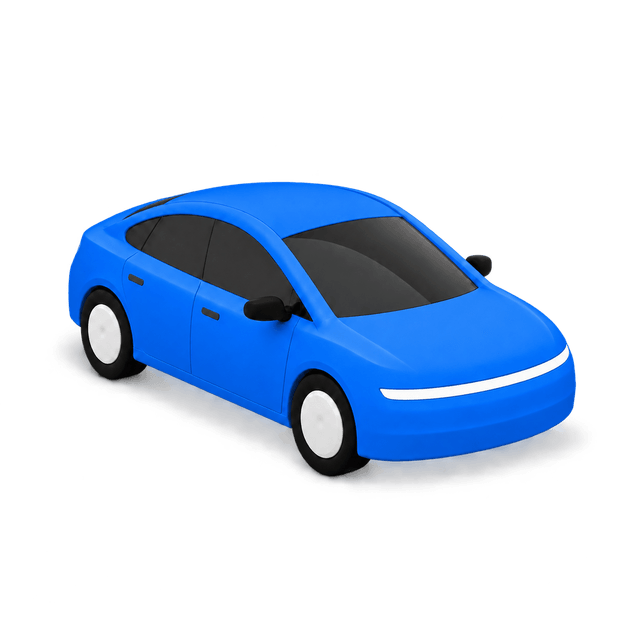
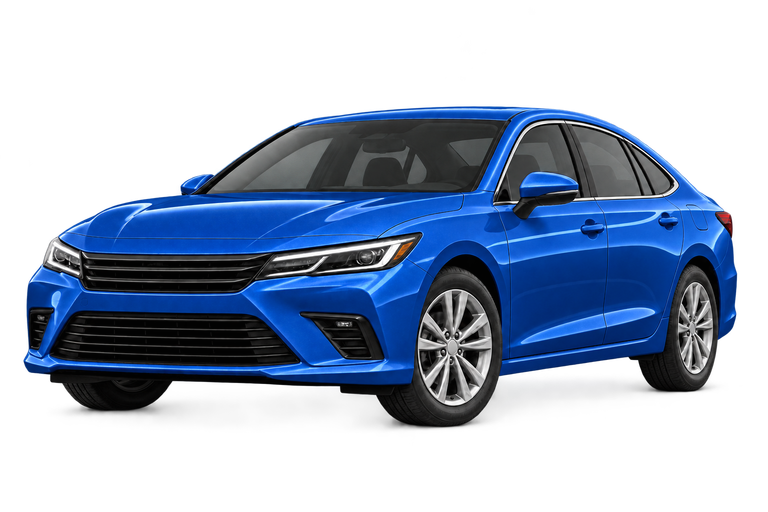
Use realistic vehicle artwork across web and native apps

diff --git a/apps/mobile/src/ui/vehicle-card.tsx b/apps/mobile/src/ui/vehicle-card.tsx
@@ -9,7 +9,7 @@ export function VehicleCard({ vehicle, label = 'YOUR VEHICLE', compact = false }
   const value = vehiclePresentation(vehicle);
   return <View style={card.container}>
     <View style={card.art} accessible={false} accessibilityElementsHidden importantForAccessibility="no-hide-descendants">
-      <Image source={vehicle.category && vehicle.category !== 'standard' ? categoryImages[vehicle.category] : vehicleImage(value.colourId)} resizeMode={vehicle.category && vehicle.category !== 'standard' ? 'contain' : 'cover'} style={[card.image, compact && card.compactImage]}/>
+      <Image source={vehicle.category && vehicle.category !== 'standard' ? categoryImages[vehicle.category] : vehicleImage(value.colourId)} resizeMode="contain" style={[card.image, compact && card.compactImage]}/>
     </View>
     <View style={card.info}><Text style={styles.label}>{label}</Text><Text style={styles.h2}>{value.title}</Text>
       <Text style={styles.body}>{value.description}</Text>
@@ -20,7 +20,7 @@ export function VehicleCard({ vehicle, label = 'YOUR VEHICLE', compact = false }
 }
 const card = StyleSheet.create({
   container: { borderWidth: 1, borderColor: colors.border, borderRadius: 22, overflow: 'hidden', backgroundColor: colors.white },
-  art: { backgroundColor: '#F7F7F4', width: '100%', alignItems: 'center' }, image: { width: '100%', maxWidth: 400, aspectRatio: 1.6 }, compactImage: { maxWidth: 300 }, info: { padding: 20, gap: 9 },
+  art: { backgroundColor: '#F7F7F4', width: '100%', alignItems: 'center' }, image: { width: '100%', maxWidth: 400, aspectRatio: 3 / 2 }, compactImage: { maxWidth: 300 }, info: { padding: 20, gap: 9 },
   plate: { alignSelf: 'flex-start', maxWidth: '100%', flexDirection: 'row', borderWidth: 1, borderColor: '#9BA69E', borderRadius: 8, backgroundColor: '#FCFDFB', overflow: 'hidden', marginVertical: 3 },
   plateStripe: { width: 7, backgroundColor: '#467260' }, plateText: { flexShrink: 1, fontSize: 22, letterSpacing: 1.5, fontWeight: '800', color: colors.ink, paddingVertical: 10, paddingHorizontal: 14 },
 });

diff --git a/apps/web/public/vehicle.css b/apps/web/public/vehicle.css
@@ -1,7 +1,7 @@
 .vehicle-card { display: grid; grid-template-columns: minmax(0, 1.05fr) minmax(0, 1fr); border: 1px solid var(--line); border-radius: 22px; overflow: hidden; background: white; margin-block: 22px; }
 .vehicle-card-art { display: flex; align-items: center; justify-content: center; background: #f7f7f4; min-width: 0; }
-/* The source is square with generous transparent margins. Crop those margins, never stretch the car. */
-.vehicle-card-art img { display: block; width: 100%; max-width: 440px; height: auto; object-fit: cover; aspect-ratio: 1.6; }
+/* Landscape cutouts keep their complete silhouette, including taller delivery vehicles. */
+.vehicle-card-art img { display: block; width: 100%; max-width: 440px; height: auto; object-fit: contain; aspect-ratio: 3 / 2; }
 .vehicle-card-info { min-width: 0; padding: clamp(20px, 3vw, 32px); align-self: center; overflow-wrap: anywhere; }
 .vehicle-card-info h3, .onboarding-panel .vehicle-card-info h3 { margin: 10px 0 8px; font-size: clamp(22px, 3vw, 30px); letter-spacing: -.04em; line-height: 1.15; }
 .vehicle-description { font-size: 15px; color: var(--muted); }

diff --git a/docs/design/vehicle-icons.md b/docs/design/vehicle-icons.md
@@ -1,76 +1,103 @@
-# Rounded vehicle icons
+# Realistic vehicle artwork
 
-Created on 2026-09-20 with built-in ImageGen in generate/edit mode. The user supplied
-a white rounded 3D car on a white background as the style reference. The resulting
-car is a generic illustration; it does not establish the driver's make, model,
-model year, trim or actual paint code. Plate text is rendered by the interface from
-the saved record and never generated into the artwork.
+Updated on 2026-09-21 with the built-in ImageGen tool. The user supplied a
+photographic grey SUV cutout as the style and camera reference. Five separate
+category generations and nine sedan paint edits replace the previous rounded
+car illustrations and Cybertruck category artwork.
 
-## Project assets
+These are generated example images, not photographs of approved drivers' vehicles.
+They do not establish make, model, year, capacity, availability or exact paint
+codes. Every vehicle card retains its illustration disclaimer and the assigned
+plate as selectable text. Private driver evidence is never used as public artwork.
 
-- Web: `apps/web/public/assets/vehicles/sedan-{colour}.png`.
-- Native: `apps/mobile/src/assets/vehicles/sedan-{colour}.png`.
-- Colours: white, silver, grey, black, blue, red, green, yellow, gold and brown.
-- Neutral uses the same white image, with an explicit model/colour mismatch note.
-- Every delivered file is a 640×640 transparent palette PNG, below 75 kB. Export
-  resized the generated square uniformly and compressed it; no synthetic plate,
-  colour filter or nonuniform scaling is applied. Native and web copies match.
-- Cards and the map crop the empty top/bottom margins at render time while retaining
-  the complete car silhouette. Standalone generated/exported icons were inspected.
-  Browser layout and physical-device acceptance still need review.
+## App assets
 
-## Exact prompts
+- Web: `apps/web/public/assets/vehicles/`.
+- Native: `apps/mobile/src/assets/vehicles/`.
+- Standard: `sedan-white.png`; SUV: `category-suv.png`; van: `category-van.png`;
+  truck: `category-truck.png`; motorcycle: `category-motorcycle.png`.
+- Sedan colours: `sedan-{white,silver,grey,black,blue,red,green,yellow,gold,brown}.png`.
+- Web `sedan-neutral.png` is identical to white; native neutral resolves to white.
+  Unknown/custom/two-tone colours keep the existing explicit mismatch note.
+- Originals were generated as 1536×1024 RGBA PNGs. App exports are uniformly
+  downscaled to 768×512, with lossless PNG compression and full RGBA colour;
+  no cropping, recolouring or manual background removal is used in export.
+  The generated alpha is retained, including soft edges and contact shadows.
+- The fourteen unique exports total about 4.57 MB. Sedan assets are below
+  350 kB each; category assets are below 450 kB each. Web and native copies match
+  byte for byte. The more detailed images increase asset size over the old icons.
+- All vehicles face left in a front three-quarter view. Cards use `contain`
+  at 3:2, and map markers use SVG `meet`, so roofs and wheels remain visible.
 
-Base generation, with the user reference attached:
+## Exact generation prompts
 
-> Create a single production UI vehicle icon for Taxi Ai, using the attached image as the visual style and composition reference. Stylized 3D clay render of a generic modern compact four-door sedan, rounded smooth white body, dark charcoal windows, black tyres, simple white circular wheel covers, black mirrors, subtle white headlights. Elevated front three-quarter view facing toward the lower right; see front, left side and roof. Entire car visible with generous margins, naturally proportioned, centered on a square 1024x1024 canvas. Car fills about 80% of canvas width. Soft ambient studio illumination and a small soft contact shadow. Clean very pale warm-white background (#F7F7F4). No words, numbers, plate lettering, badges, logos, people, UI or watermarks. Match the soft minimal premium 3D appearance of the reference, not a flat vector or a sharp angular polygon illustration. This is a generic illustrative car, not an identifiable make or model. Output only one white car asset.
+Mode: built-in ImageGen; five separate `product-mockup` generations with the
+user's grey SUV as a style/camera reference. Each call used the common prompt
+below followed by the corresponding subject paragraph.
 
-Transparency edit, with the generated white car attached:
+```text
+Use case: product-mockup. Asset type: one production vehicle image for the Taxi AI ride and delivery app. Image 1 is a STYLE AND CAMERA REFERENCE ONLY: match its realistic dealership catalog photography, front three-quarter viewpoint with the vehicle's nose pointing to the LEFT and a visible long side receding to the right, natural proportions, glossy paint, dark glass, detailed alloy wheels, crisp soft studio highlights. Create ONE vehicle only, isolated on a genuinely transparent alpha background, no black/white fill and no checkerboard baked in. Full vehicle and every wheel visible, centered on a landscape 1536x1024 canvas, with about 7% clear margin left and right and 12% above and below; vehicle fills about 86% width. Camera around headlight height, only a little of the roof visible, matching the reference. Subtle semi-transparent tyre contact shadow only. Photorealistic, premium automotive catalog cutout, NOT toy, cartoon, clay, low-poly or illustration. No badge, brand mark, readable plate, text, watermark, people, road, scenery, pedestal or border. Wheels, mirrors and accessories retain realistic neutral metal/black. Deliver an actual transparent PNG with alpha.
+```
 
-> Edit the attached white rounded 3D car icon. Preserve exactly the car shape, white paint, charcoal glass, white hubcaps, all wheels, scale, front three-quarter camera angle, placement and square canvas. Remove the white background and output a real transparent alpha background, preserving a soft semi-transparent contact shadow beneath the tyres. Do not change the vehicle or add details. Output a single production app icon PNG, no words, logos, numbers or UI. The transparent icon must sit cleanly on a map or pale interface.
+### sedan-white
 
-Each paint variant used the transparent white source as its reference, in a separate
-built-in image edit. All variants retain the same camera and generic body shape.
+```text
+Subject: a modern generic mid-size FOUR-DOOR SEDAN, low roof, distinct trunk, premium glossy pearl WHITE paint. Recognizably a passenger sedan, not a crossover. Black grille, realistic LED headlamps, silver alloy wheels. Do not duplicate the reference SUV body.
+```
 
-### Silver
+### category-suv
 
-> Make ONE colour variant of this exact attached generic rounded 3D car icon for an app. Change ONLY the white body paint (roof, hood, doors, fenders and bumpers) to light metallic silver. Preserve the exact same shape, camera, scale, position, charcoal black glass, black tyres/mirrors, white wheel covers and white headlights. Do not colour the white wheel covers. Keep the square canvas and real transparent alpha background with a soft semi-transparent contact shadow. Entire car visible, front three-quarter view facing lower right. No words, numbers, plate text, logos, other objects or UI. Return one isolated silver car PNG matching the reference geometry.
+```text
+Subject: a modern generic mid-size FIVE-DOOR SUV, premium dark GRAPHITE GREY metallic paint, higher roof and ground clearance, clearly an enclosed family SUV. Similar proportions to the reference SUV, with an original unbranded grille/body design; NOT a pickup and NOT a Cybertruck.
+```
 
-### Grey
+### category-van
 
-> Make ONE colour variant of this exact attached generic rounded 3D car icon for an app. Change ONLY the white body paint (roof, hood, doors, fenders and bumpers) to medium graphite grey. Preserve the exact same shape, camera, scale, position, charcoal black glass, black tyres/mirrors, white wheel covers and white headlights. Do not colour the white wheel covers. Keep the square canvas and real transparent alpha background with a soft semi-transparent contact shadow. Entire car visible, front three-quarter view facing lower right. No words, numbers, plate text, logos, other objects or UI. Return one isolated grey car PNG matching the reference geometry.
+```text
+Subject: a realistic modern WHITE commercial PANEL DELIVERY VAN with high roof, short hood, one sliding side door and a windowless rear cargo body. A light commercial van, not a passenger minibus and not a box truck. Dark windows only at the front cab, black lower trim, realistic silver wheels.
+```
 
-### Black
+### category-truck
 
-> Make ONE colour variant of this exact attached generic rounded 3D car icon for an app. Change ONLY the white body paint (roof, hood, doors, fenders and bumpers) to deep charcoal black. Preserve the exact same shape, camera, scale, position, charcoal black glass, black tyres/mirrors, white wheel covers and white headlights. Do not colour the white wheel covers. Keep the square canvas and real transparent alpha background with a soft semi-transparent contact shadow. Entire car visible, front three-quarter view facing lower right. No words, numbers, plate text, logos, other objects or UI. Return one isolated black car PNG matching the reference geometry.
+```text
+Subject: a realistic medium-duty WHITE commercial BOX TRUCK, a separate short forward cab and tall rectangular enclosed white cargo box on a two-axle chassis. Clearly recognizable as a cargo truck, not a panel van, pickup or semi-trailer. Black chassis/tyres, silver rims, detailed unbranded cab.
+```
 
-### Blue
+### category-motorcycle
 
-> Make ONE colour variant of this exact attached generic rounded 3D car icon for an app. Change ONLY the white body paint (roof, hood, doors, fenders and bumpers) to medium vivid blue. Preserve the exact same shape, camera, scale, position, charcoal black glass, black tyres/mirrors, white wheel covers and white headlights. Do not colour the white wheel covers. Keep the square canvas and real transparent alpha background with a soft semi-transparent contact shadow. Entire car visible, front three-quarter view facing lower right. No words, numbers, plate text, logos, other objects or UI. Return one isolated blue car PNG matching the reference geometry.
+```text
+Subject: one realistic modern commuter STREET MOTORCYCLE for a courier, glossy WHITE fuel tank and front fairing, black saddle and frame, realistic silver/black engine, two black tyres on alloy wheels, mirrors, handlebars and headlamp. No rider, no cargo box. A motorbike, not a bicycle or toy. Both wheels clearly visible and the bike is upright with a discreet side stand. Match the reference's photorealistic product-cutout lighting and front three-quarter camera direction.
+```
 
-### Red
+## Exact sedan edit prompts
 
-> Make ONE colour variant of this exact attached generic rounded 3D car icon for an app. Change ONLY the white body paint (roof, hood, doors, fenders and bumpers) to rich red. Preserve the exact same shape, camera, scale, position, charcoal black glass, black tyres/mirrors, white wheel covers and white headlights. Do not colour the white wheel covers. Keep the square canvas and real transparent alpha background with a soft semi-transparent contact shadow. Entire car visible, front three-quarter view facing lower right. No words, numbers, plate text, logos, other objects or UI. Return one isolated red car PNG matching the reference geometry.
+Mode: built-in ImageGen; nine separate `precise-object-edit` calls, each with
+the generated white sedan as the edit target. Replace `COLOR` in the following
+template with the exact value from the table; all other text is unchanged.
 
-### Green
+```text
+Use case: precise-object-edit. The attached image is the EDIT TARGET. Create one production paint-color variant of this exact realistic sedan. Change ONLY the exterior painted body panels (hood, roof, doors, fenders, bumpers, mirror painted caps and trunk) to COLOR. Preserve the identical sedan body design, camera view, nose facing left, framing, landscape 1536x1024 canvas, scale, every visible wheel, silver alloy rims, dark windows, black grille/trim/tyres, headlamps, reflections and light direction. Retain photorealistic catalog quality. Preserve the real transparent alpha background and a subtle tyre contact shadow. Do not add a background, floor, text, license plate letters, logos, people or other objects. Return exactly one isolated vehicle PNG with transparency.
+```
 
-> Make ONE colour variant of this exact attached generic rounded 3D car icon for an app. Change ONLY the white body paint (roof, hood, doors, fenders and bumpers) to deep green. Preserve the exact same shape, camera, scale, position, charcoal black glass, black tyres/mirrors, white wheel covers and white headlights. Do not colour the white wheel covers. Keep the square canvas and real transparent alpha background with a soft semi-transparent contact shadow. Entire car visible, front three-quarter view facing lower right. No words, numbers, plate text, logos, other objects or UI. Return one isolated green car PNG matching the reference geometry.
+| Filename | COLOR |
+| --- | --- |
+| `sedan-silver.png` | light metallic silver |
+| `sedan-grey.png` | medium graphite grey |
+| `sedan-black.png` | deep glossy black |
+| `sedan-blue.png` | rich metallic blue |
+| `sedan-red.png` | deep glossy red |
+| `sedan-green.png` | dark metallic emerald green |
+| `sedan-yellow.png` | Taxi AI golden yellow, approximately #F4B400 |
+| `sedan-gold.png` | metallic champagne gold |
+| `sedan-brown.png` | metallic chocolate brown |
 
-### Yellow
+## Verification and remaining acceptance
 
-> Make ONE colour variant of this exact attached generic rounded 3D car icon for an app. Change ONLY the white body paint (roof, hood, doors, fenders and bumpers) to Taxi Ai golden yellow (#F4B400). Preserve the exact same shape, camera, scale, position, charcoal black glass, black tyres/mirrors, white wheel covers and white headlights. Do not colour the white wheel covers. Keep the square canvas and real transparent alpha background with a soft semi-transparent contact shadow. Entire car visible, front three-quarter view facing lower right. No words, numbers, plate text, logos, other objects or UI. Return one isolated yellow car PNG matching the reference geometry.
+Generated subjects, camera direction, paint variants and complete silhouettes
+were visually inspected. Export checks verify RGBA transparency, dimensions,
+file budgets and matching web/native bytes. Existing automated checks cover
+vehicle identity, fallback colours, allowlisted images and app integration.
 
-### Gold
-
-> Make ONE colour variant of this exact attached generic rounded 3D car icon for an app. Change ONLY the white body paint (roof, hood, doors, fenders and bumpers) to muted metallic champagne gold. Preserve the exact same shape, camera, scale, position, charcoal black glass, black tyres/mirrors, white wheel covers and white headlights. Do not colour the white wheel covers. Keep the square canvas and real transparent alpha background with a soft semi-transparent contact shadow. Entire car visible, front three-quarter view facing lower right. No words, numbers, plate text, logos, other objects or UI. Return one isolated gold car PNG matching the reference geometry.
-
-### Brown
-
-> Make ONE colour variant of this exact attached generic rounded 3D car icon for an app. Change ONLY the white body paint (roof, hood, doors, fenders and bumpers) to medium chocolate brown. Preserve the exact same shape, camera, scale, position, charcoal black glass, black tyres/mirrors, white wheel covers and white headlights. Do not colour the white wheel covers. Keep the square canvas and real transparent alpha background with a soft semi-transparent contact shadow. Entire car visible, front three-quarter view facing lower right. No words, numbers, plate text, logos, other objects or UI. Return one isolated brown car PNG matching the reference geometry.
-
-
-Regeneration is not a substitute for reviewing the output. Inspect transparency,
-paint, retained white wheel covers, silhouette and small-size readability before
-replacing both platform copies. The [vehicle identity roadmap](../vehicle-identity.md)
-explains how future licensed exact-model assets will be resolved.
-
+Browser rendering and signed iOS/Android devices still require visual acceptance.
+Check category grids, booking/Work cards, the web map marker, narrow screens and
+large text. A successful native bundle export is not a real-phone layout test.

diff --git a/docs/design/vehicle-categories.md b/docs/design/vehicle-categories.md
@@ -1,25 +1,21 @@
 # Vehicle category artwork
 
-Created with built-in ImageGen on 2026-09-21. SUV edits the user-supplied Cybertruck reference; the other three use the existing white sedan as the style reference. All four outputs were visually inspected. Uniformly resized to 640×640 and compressed as palette PNGs, preserving generated alpha, shadows and proportions. No drawing, shape, colour or perspective edits were applied during export.
+Updated on 2026-09-21 to follow the user's realistic grey SUV reference.
 
-The matching web/native copies are `apps/web/public/assets/vehicles/category-{suv,van,truck,motorcycle}.png` and `apps/mobile/src/assets/vehicles/category-{suv,van,truck,motorcycle}.png`. Standard continues to use `sedan-white.png`. Each new image is under 110 kB. The UI renders whole images with contain sizing.
+| Category | Export | Appearance |
+| --- | --- | --- |
+| Standard | `sedan-white.png` | White four-door sedan |
+| SUV | `category-suv.png` | Graphite grey enclosed SUV |
+| Van | `category-van.png` | White high-roof panel van |
+| Truck | `category-truck.png` | White cab and enclosed cargo box |
+| Motorcycle | `category-motorcycle.png` | White and black commuter motorcycle |
 
-These are category illustrations, separate from the existing registered-vehicle colour cards and actual driver identity. They do not establish availability, capacity or a specific make/model match.
+All five use front three-quarter views facing left, transparent backgrounds,
+768×512 PNG exports and whole-vehicle contain sizing. The SUV now uses a family
+SUV body matching the requested category. Both apps share identical files.
 
-## Exact prompts
+These are example category images. They do not guarantee a specific model,
+availability or capacity; the approved driver vehicle and plate remain authoritative.
 
-### suv
-
-Use case: background-extraction. Edit the attached user-supplied silver Cybertruck image into one production vehicle-category icon for the Taxi Ai app. Preserve the exact silver angular Cybertruck, its body design, open cargo bed, charcoal tyres, dark windows, red rear light strip and rear three-quarter camera view. Remove only the grey studio floor/background. Reframe the entire vehicle centered in a square 1024 by 1024 canvas with generous empty margins; the truck fills about 82 percent of canvas width. Output real transparent alpha behind and around the truck with a subtle semi-transparent contact shadow. Keep the complete vehicle silhouette and all visible wheels. Do not add text, category labels, logos, people, roads, other vehicles or interface elements. Return a single isolated transparent PNG.
-
-### van
-
-Use case: stylized-concept. Asset type: a single vehicle-category icon for Taxi Ai web and mobile. The attached existing car icon is a style and camera reference only. Create a modern white panel delivery van with a tall roof, short hood, sliding side door and no rear passenger side windows. Match the reference's premium minimal soft 3D rendering, smooth white body surfaces, dark charcoal glass where applicable, black tyres and restrained realistic detail. Elevated front three-quarter camera facing toward the lower right, show the front, left side and top. Center the entire vehicle on a square 1024 by 1024 canvas, filling about 82 percent of the canvas width with generous margins. Genuine transparent alpha background and a small soft semi-transparent contact shadow. Soft studio illumination. Clear recognizable silhouette at small size. One vehicle only. No letters, numbers, plate lettering, badges, logos, people, UI, watermarks, ground plane or scenery.
-
-### truck
-
-Use case: stylized-concept. Asset type: a single vehicle-category icon for Taxi Ai web and mobile. The attached existing car icon is a style and camera reference only. Create a small white commercial box truck with a clearly separate forward cab and tall rectangular cargo box, visibly larger cargo volume than a panel van, two axles. Match the reference's premium minimal soft 3D rendering, smooth white body surfaces, dark charcoal glass where applicable, black tyres and restrained realistic detail. Elevated front three-quarter camera facing toward the lower right, show the front, left side and top. Center the entire vehicle on a square 1024 by 1024 canvas, filling about 82 percent of the canvas width with generous margins. Genuine transparent alpha background and a small soft semi-transparent contact shadow. Soft studio illumination. Clear recognizable silhouette at small size. One vehicle only. No letters, numbers, plate lettering, badges, logos, people, UI, watermarks, ground plane or scenery.
-
-### motorcycle
-
-Use case: stylized-concept. Asset type: a single vehicle-category icon for Taxi Ai web and mobile. The attached existing car icon is a style and camera reference only. Create one white modern standard street motorcycle with two visible black tyres, silver wheel hubs, a black saddle, mirrors and handlebars; no rider, no delivery box. Match the reference's premium minimal soft 3D rendering, smooth white body surfaces, dark charcoal glass where applicable, black tyres and restrained realistic detail. Elevated front three-quarter camera facing toward the lower right, show the front, left side and top. Center the entire vehicle on a square 1024 by 1024 canvas, filling about 82 percent of the canvas width with generous margins. Genuine transparent alpha background and a small soft semi-transparent contact shadow. Soft studio illumination. Clear recognizable silhouette at small size. One vehicle only. No letters, numbers, plate lettering, badges, logos, people, UI, watermarks, ground plane or scenery.
+See [the complete artwork record](vehicle-icons.md) for the built-in ImageGen
+mode, exact prompts, sedan colour variants, asset paths, export sizes and QA limits.

diff --git a/docs/brand.md b/docs/brand.md
@@ -63,12 +63,13 @@ communications, payments or autonomous rides.
 
 ## Vehicle identity cards
 
-Vehicle cards use the same amber/graphite interface with rounded 3D-style PNG
-illustrations and the registered solid colour from a bounded palette. The
+Vehicle cards use the same amber/graphite interface with realistic front
+three-quarter PNG cutouts and the registered solid colour from a bounded palette. The
 number plate is selectable text, separate from the artwork. Unknown or two-tone
 colours use a clearly labelled neutral illustration. The illustration is not an
 exact make/model render. Web assets live in `apps/web/public/assets/vehicles/`;
 identical native files are bundled in `apps/mobile/src/assets/vehicles/`. The
-transparent square sources keep their proportions; interface crops remove only
-empty margins. See [the icon prompts and provenance](design/vehicle-icons.md).
+transparent landscape sources keep their 3:2 proportions, with the nose facing
+left. Cards and map markers contain the complete vehicle without cropping.
+See [the artwork prompts and provenance](design/vehicle-icons.md).
 See [vehicle identity](vehicle-identity.md) for the exact-model catalogue roadmap.

diff --git a/docs/vehicle-identity.md b/docs/vehicle-identity.md
@@ -31,10 +31,10 @@ server decisions. Use fictional information and images in the development previe
   journey's colour illustration only when a driver-reported position is available.
   No synthetic movement, heading or live-location claim is added.
 - Responsive cards with preserved image aspect ratios and a large text plate.
-  Rounded 3D-style PNG icons follow the supplied reference, with ten separately
-  generated paint variants. Identical 640×640 assets are served locally on web and
-  bundled for native. Layout crops empty transparent margins without stretching
-  the car. Unknown/custom/two-tone colours use white fallback artwork with an
+  Realistic front three-quarter PNG cutouts follow the supplied SUV reference,
+  with ten separately generated sedan paint variants. Identical 768×512 assets
+  are served locally on web and bundled for native. Layout contains the entire
+  vehicle without stretching or cropping. Unknown/custom/two-tone colours use white fallback artwork with an
   explicit mismatch note. See [icon provenance and prompts](design/vehicle-icons.md).
 - Home, Activity, Work and Account native tabs with consistent vector icons.
 

diff --git a/docs/vehicle-categories.md b/docs/vehicle-categories.md
@@ -1,8 +1,9 @@
 # Vehicle categories and booking workflows
 
 Release 0.22 / mobile 0.6 enables all five categories in the development preview.
-The SUV artwork retains the user's silver Cybertruck; van, truck and motorcycle
-use matching white illustrations. Artwork never guarantees a particular model,
+The artwork follows the user's realistic grey SUV reference: a graphite SUV,
+white sedan, panel van, box truck and motorcycle, all facing left in a front
+three-quarter view on transparent backgrounds. Artwork never guarantees a particular model,
 paint or fleet. Check the assigned driver's approved vehicle and plate.
 
 | Category | Booking | Preview fare factor | Preview maximum parcel weight |
